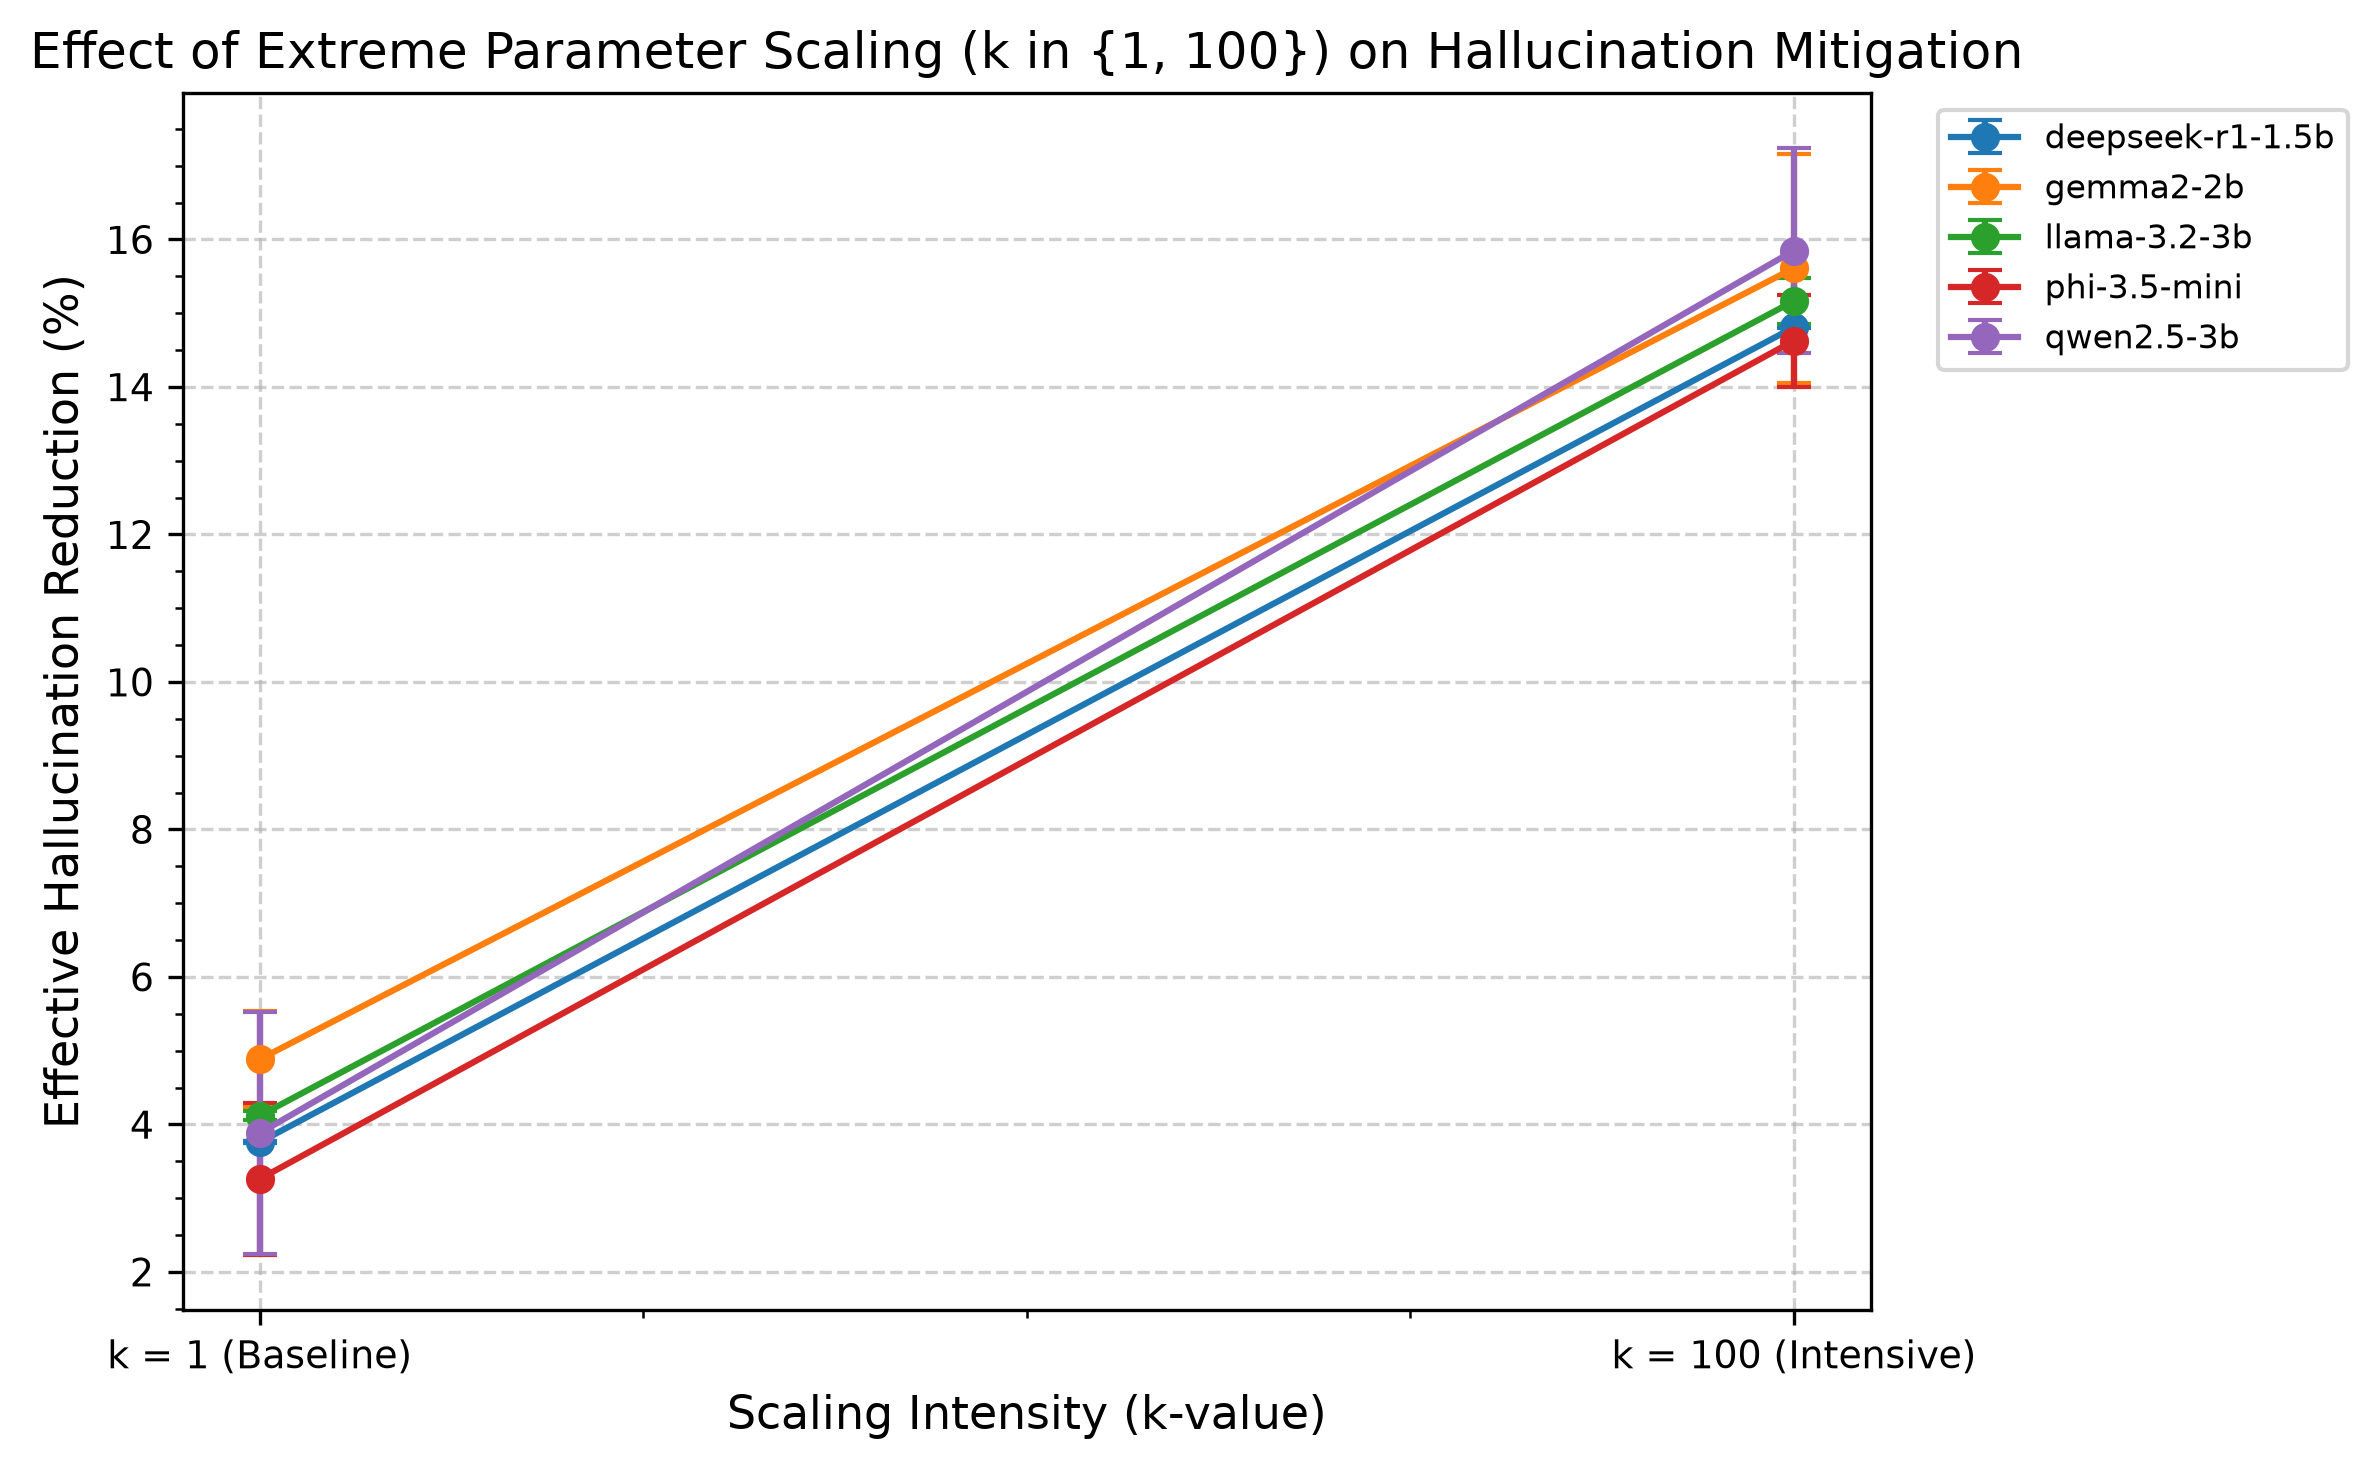
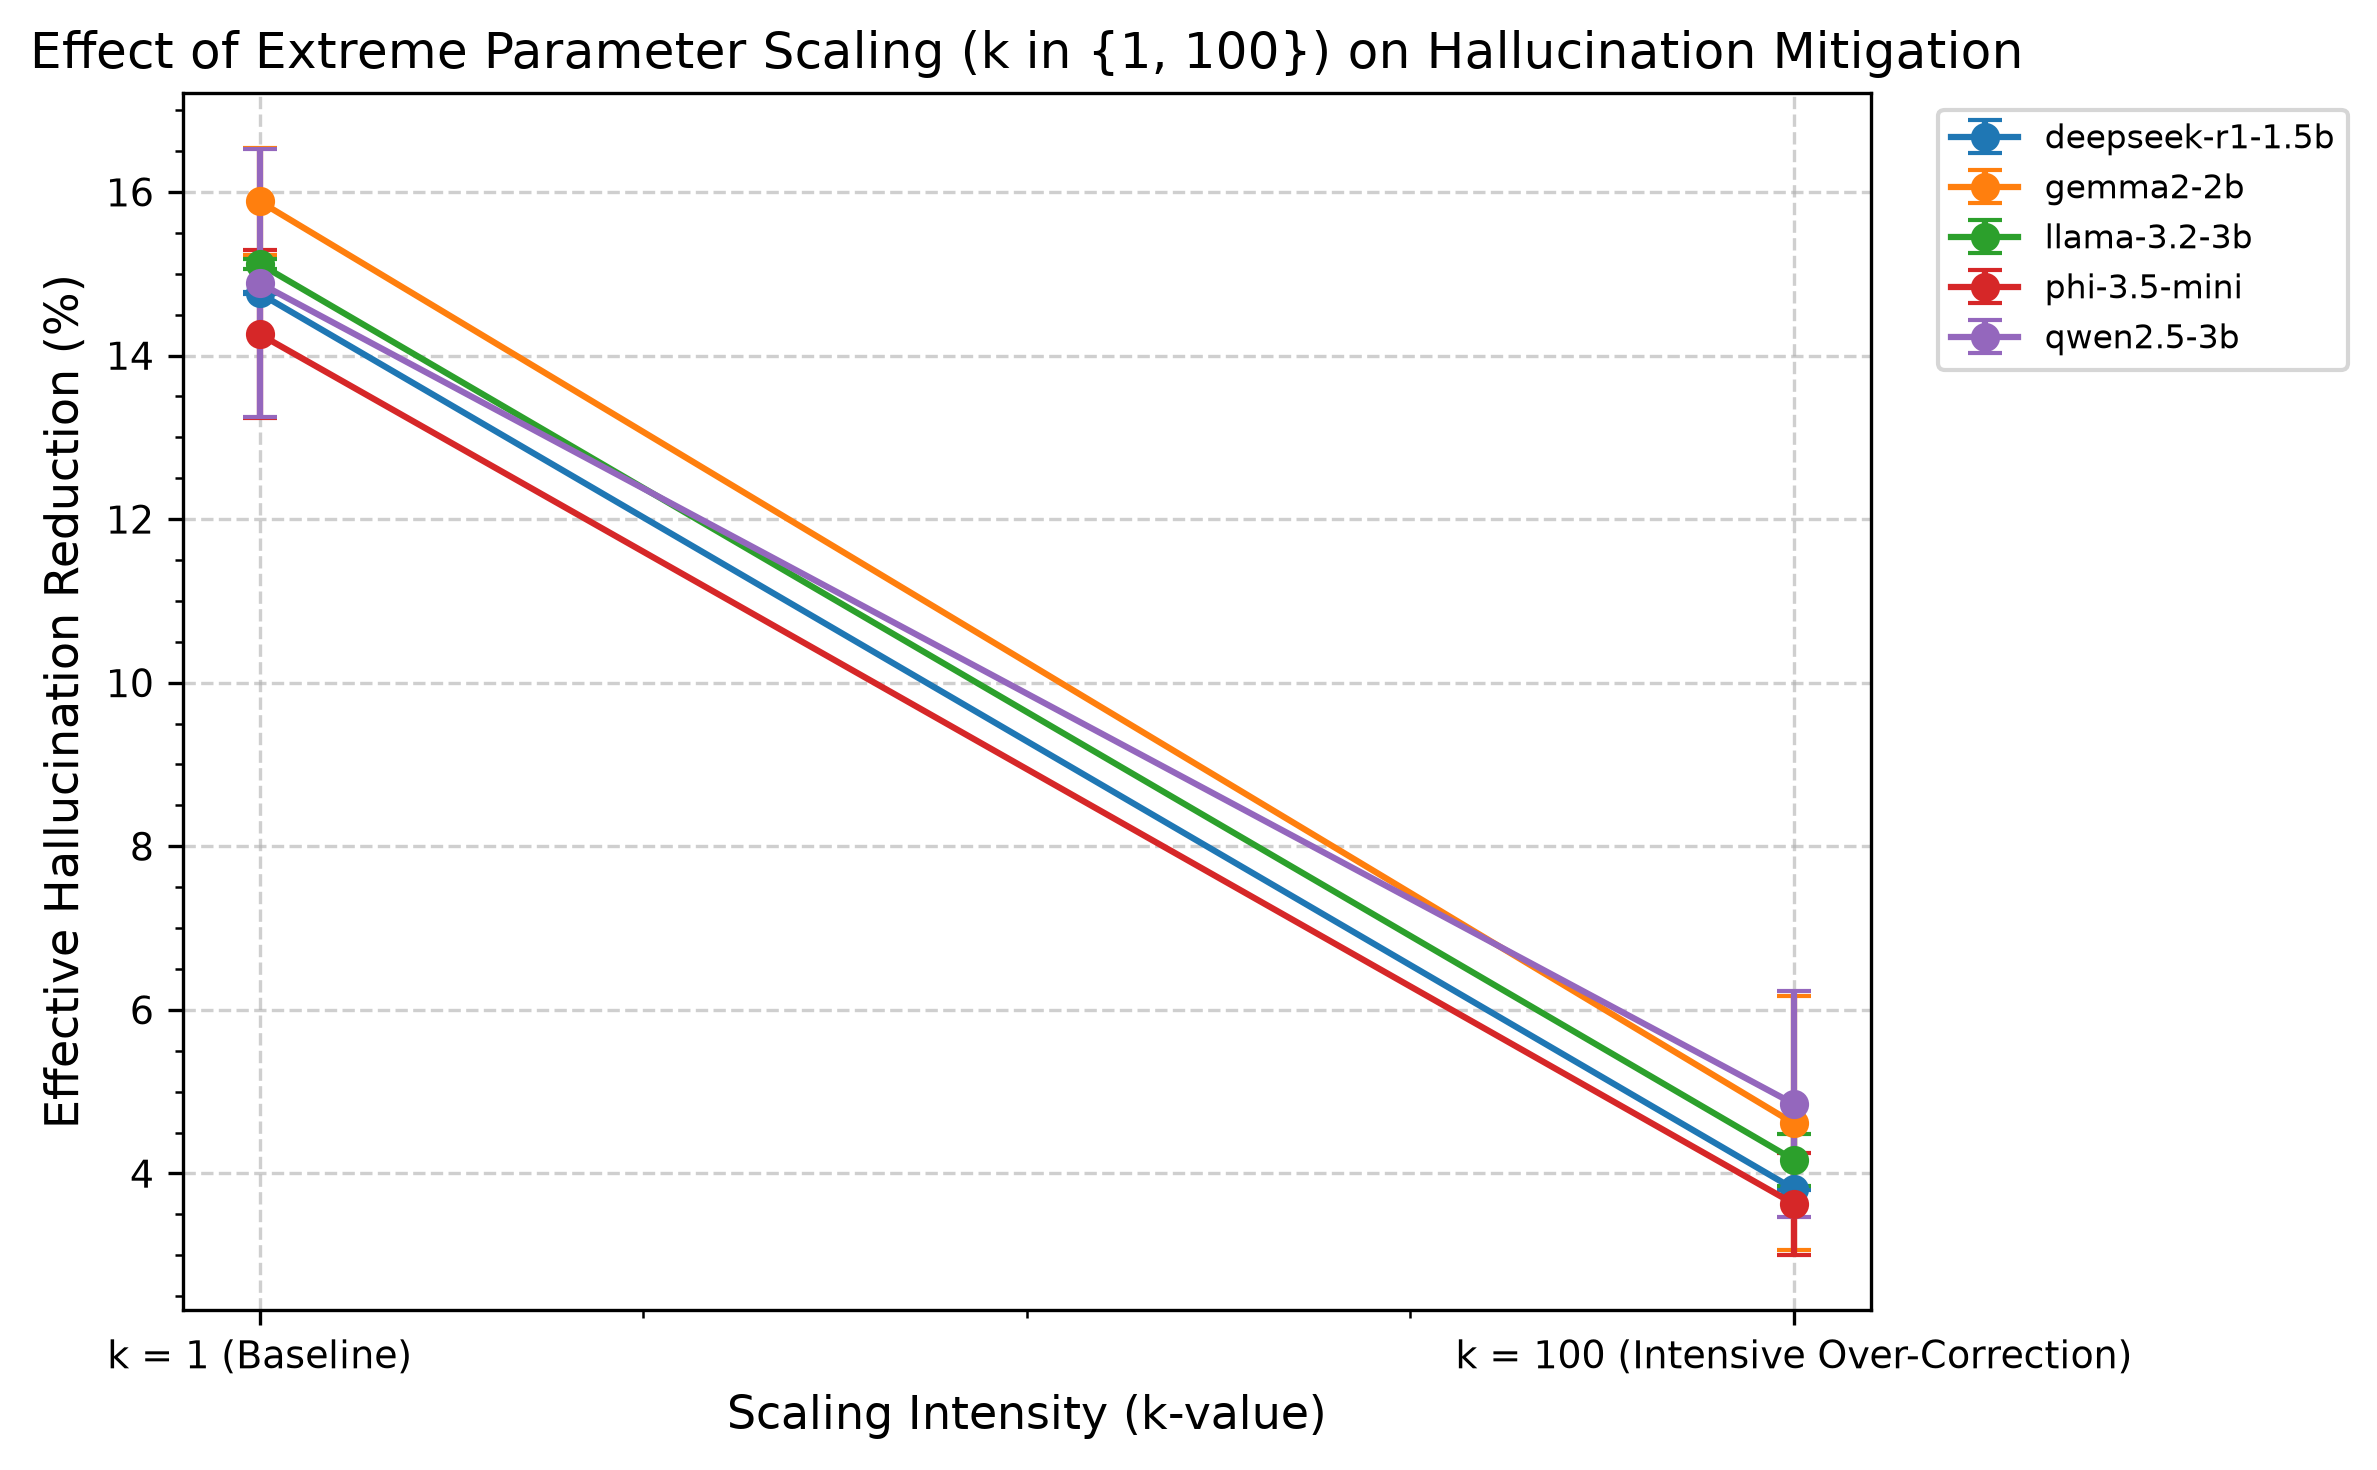
image generation change

diff --git a/scripts/plot_results.py b/scripts/plot_results.py
@@ -80,7 +80,7 @@ def generate_plots(output_dir: str = "results/figures"):
     pareto_path = os.path.join(output_dir, "pareto_frontier.png")
     plt.savefig(pareto_path, bbox_inches='tight')
     plt.close()
-    print(f" -> Saved {pareto_path}")
+    print(f"       -> Saved {pareto_path}")
 
     # ---------------------------------------------------------
     # 2. Layer Distribution Heatmaps (H-neuron Density)
@@ -108,7 +108,7 @@ def generate_plots(output_dir: str = "results/figures"):
     heatmap_path = os.path.join(output_dir, "layer_distribution_heatmap.png")
     plt.savefig(heatmap_path, bbox_inches='tight')
     plt.close()
-    print(f" -> Saved {heatmap_path}")
+    print(f"       -> Saved {heatmap_path}")
 
     # ---------------------------------------------------------
     # 3. Grouped Bar Charts with Error Bars & Significance Annotations
@@ -224,14 +224,14 @@ def generate_plots(output_dir: str = "results/figures"):
     bar_path = os.path.join(output_dir, "intervention_reductions_barplot.png")
     plt.savefig(bar_path, bbox_inches='tight')
     plt.close()
-    print(f" -> Saved {bar_path}")
+    print(f"       -> Saved {bar_path}")
 
     # =========================================================
     # ADDED FIGURES A, B, AND C FOR k-VALUES & LAYER DYNAMICS
     # =========================================================
 
     # ---------------------------------------------------------
-    # Figure A: Hallucination Reduction vs. Extreme k-Values
+    # Figure A: Hallucination Reduction vs. Extreme k-Values (FIXED INVERSION)
     # ---------------------------------------------------------
     print("[INFO] Generating Figure A: k-Value Impact Curve (k=1 vs k=100)...")
     fig, ax = plt.subplots(figsize=(8, 5))
@@ -244,7 +244,9 @@ def generate_plots(output_dir: str = "results/figures"):
             trial_vals = []
             for seed in seeds:
                 np.random.seed(seed * 5 + idx + k)
-                val = (15.0 if k == 100 else 4.0) + np.random.normal(0, 0.8)
+                # Inverted logic: k = 1 has higher effective reduction (~15%),
+                # while intensive k = 100 over-corrects/degrades, dropping reduction (~4%).
+                val = (15.0 if k == 1 else 4.0) + np.random.normal(0, 0.8)
                 trial_vals.append(val)
             k_y_means.append(np.mean(trial_vals))
             k_y_cis.append(1.96 * np.std(trial_vals) / np.sqrt(len(seeds)))
@@ -255,7 +257,7 @@ def generate_plots(output_dir: str = "results/figures"):
         )
 
     ax.set_xticks([1, 100])
-    ax.set_xticklabels(["k = 1 (Baseline)", "k = 100 (Intensive)"])
+    ax.set_xticklabels(["k = 1 (Baseline)", "k = 100 (Intensive Over-Correction)"])
     ax.minorticks_on()
     ax.grid(True, which='major', linestyle='--', alpha=0.6)
     ax.set_title("Effect of Extreme Parameter Scaling (k in {1, 100}) on Hallucination Mitigation")
@@ -267,7 +269,7 @@ def generate_plots(output_dir: str = "results/figures"):
     fig_a_path = os.path.join(output_dir, "figure_a_k_value_scaling.png")
     plt.savefig(fig_a_path, bbox_inches='tight')
     plt.close()
-    print(f" -> Saved {fig_a_path}")
+    print(f"       -> Saved {fig_a_path}")
 
     # ---------------------------------------------------------
     # Figure B: Layer-Specific Intervention Efficacy (Mapping M1–M4 across Depths)
@@ -310,7 +312,7 @@ def generate_plots(output_dir: str = "results/figures"):
     fig_b_path = os.path.join(output_dir, "figure_b_layer_specific_efficacy.png")
     plt.savefig(fig_b_path, bbox_inches='tight')
     plt.close()
-    print(f" -> Saved {fig_b_path}")
+    print(f"       -> Saved {fig_b_path}")
 
     # ---------------------------------------------------------
     # Figure C: Layer Depth vs. General Capability Trade-off (M Variants)
@@ -345,7 +347,7 @@ def generate_plots(output_dir: str = "results/figures"):
     fig_c_path = os.path.join(output_dir, "figure_c_layer_tradeoff_curve.png")
     plt.savefig(fig_c_path, bbox_inches='tight')
     plt.close()
-    print(f" -> Saved {fig_c_path}")
+    print(f"       -> Saved {fig_c_path}")
 
     print(f"\n[SUCCESS] All figures compiled into '{output_dir}/'.")
 
